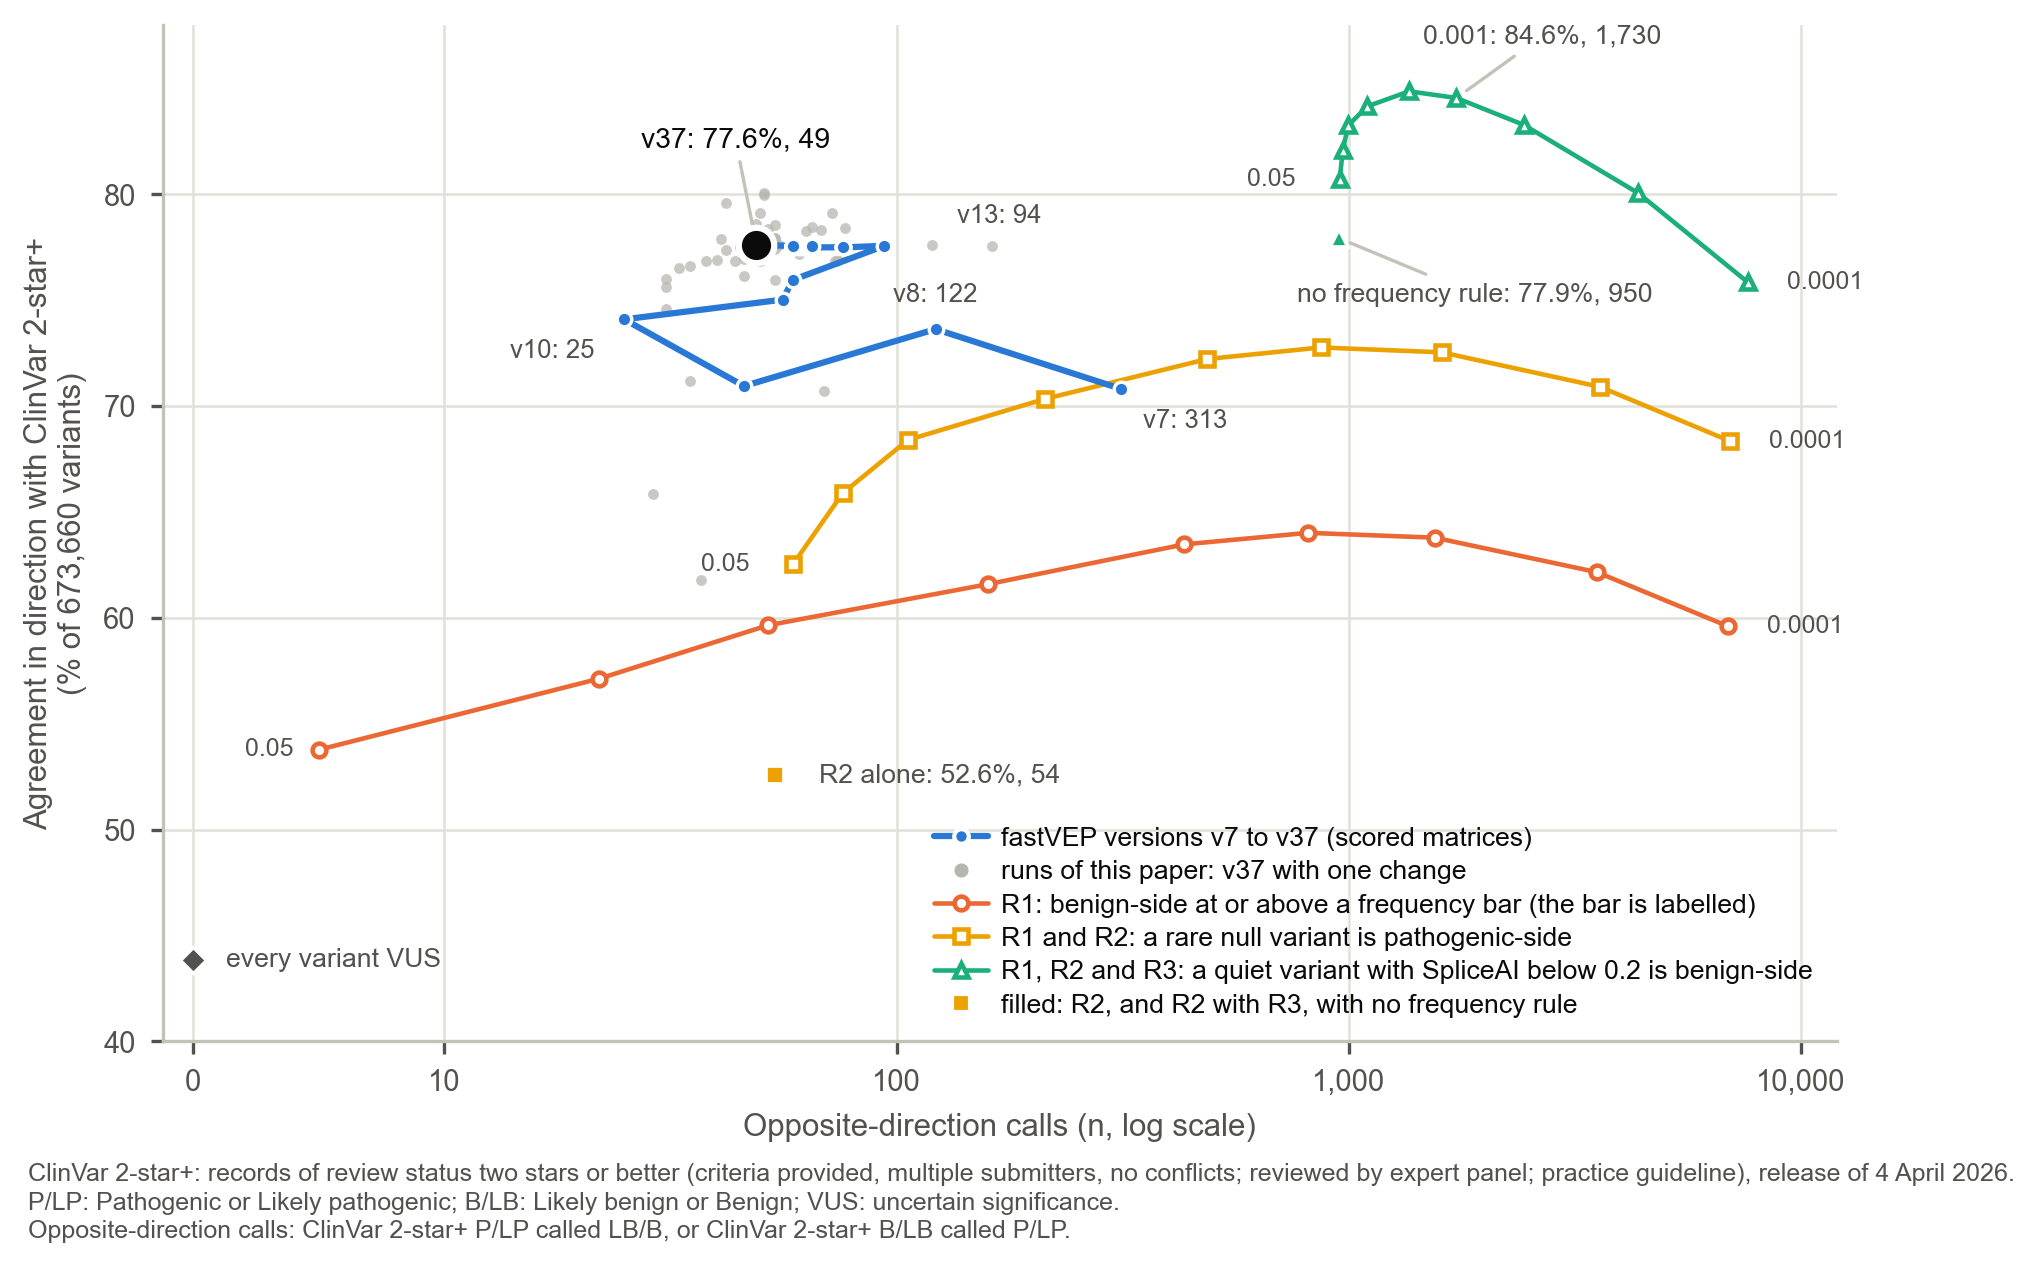
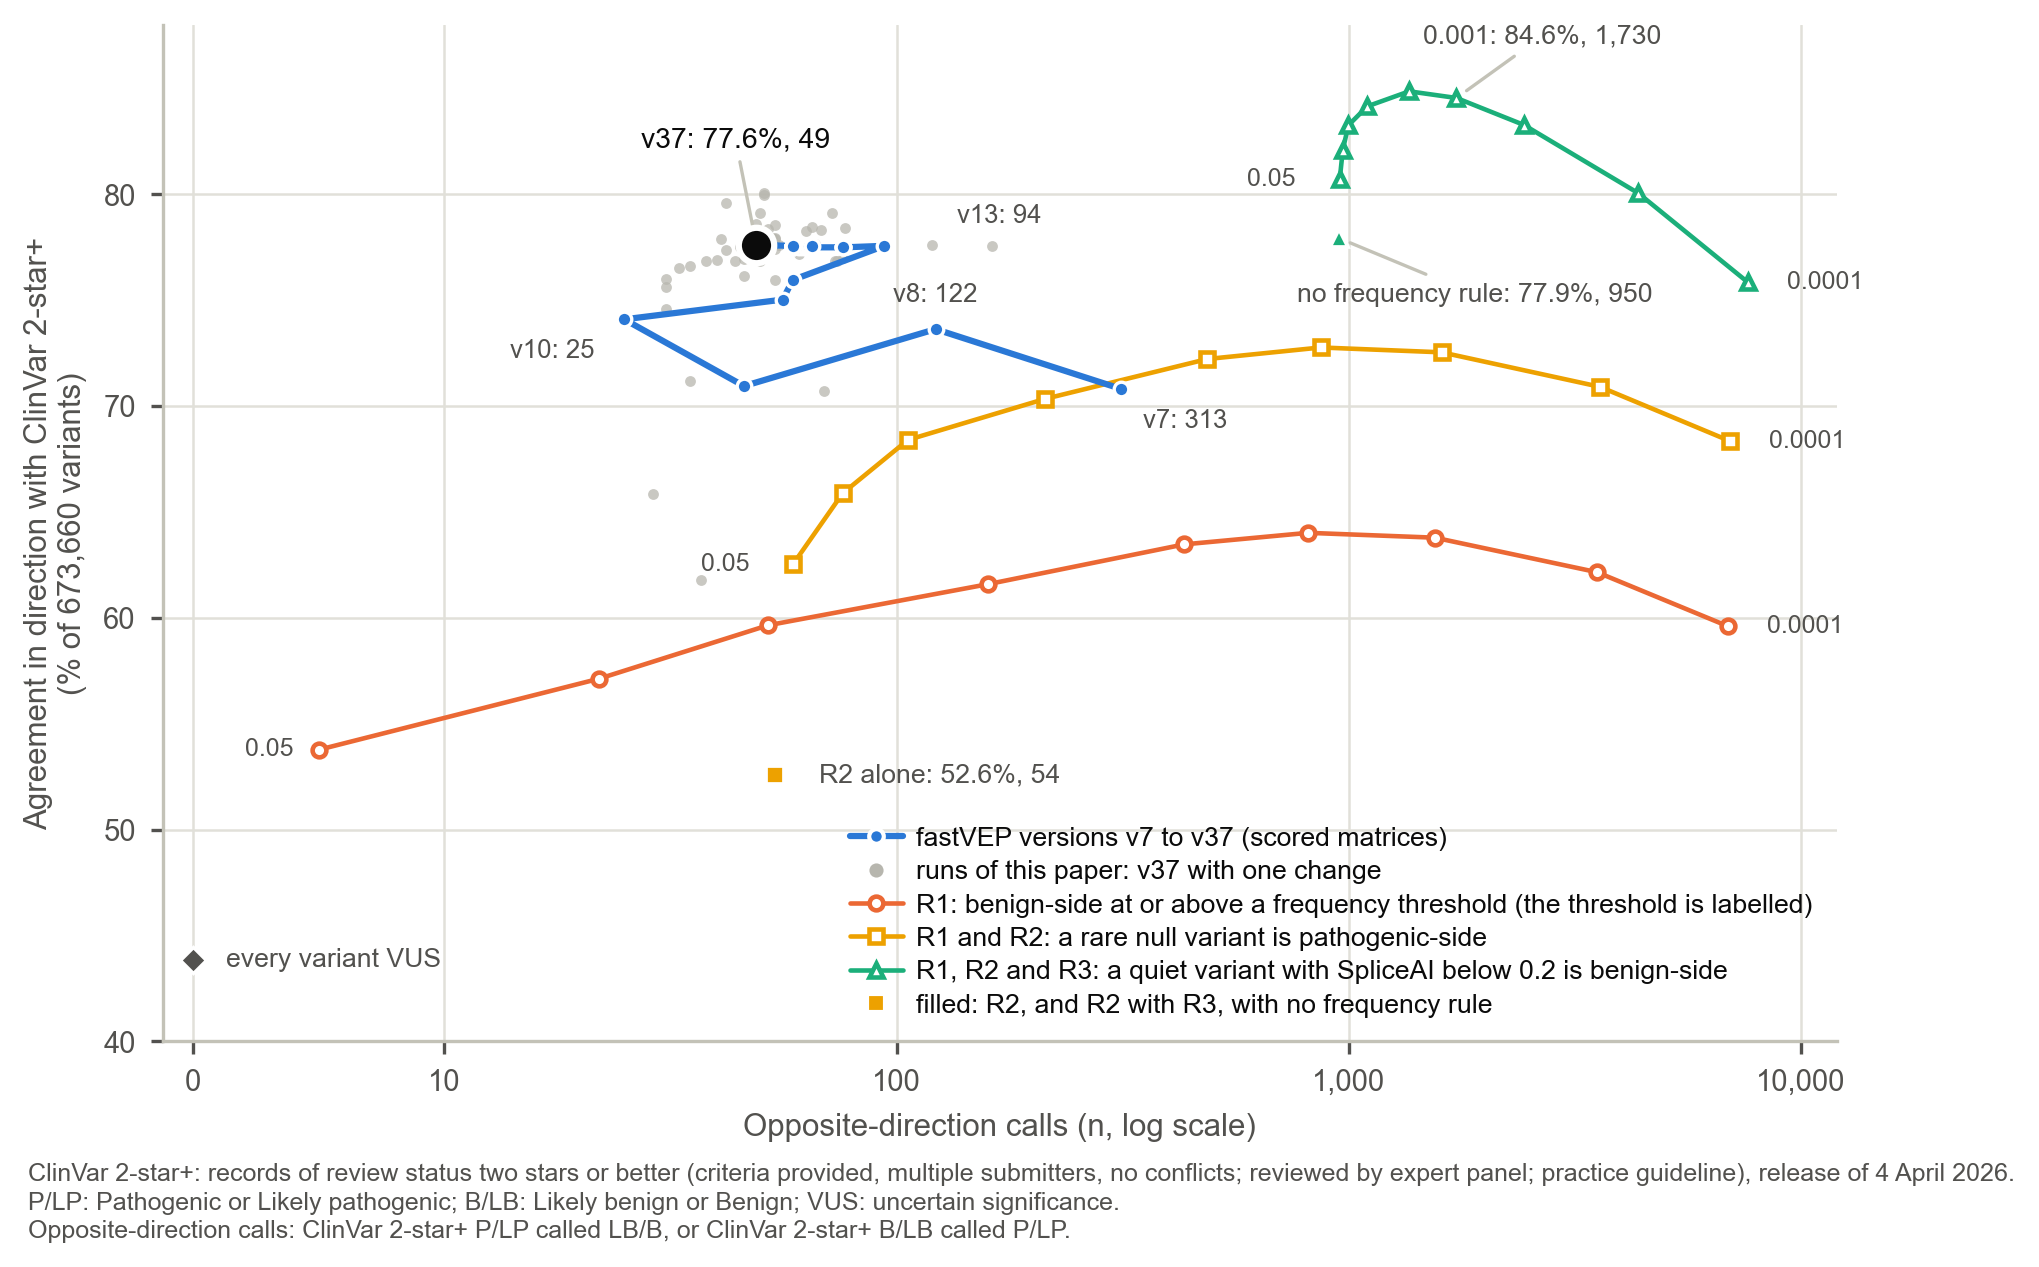
docs(acmg): say frequency threshold in Figure S4's legend, as the text and the other figures do
The legend of R1 read "a frequency bar (the bar is labelled)" after the manuscript had stopped using the word.
Regenerated with generate_figures.py S4: the only pixels that differ are inside the legend.
The comments of the generator that said shipped and bar now say default and threshold; the names it reads from data/ are unchanged.

Changed region(s): [[0.4017, 0.6464, 0.896, 0.8003]]

diff --git a/manuscript/acmg/generate_figures.py b/manuscript/acmg/generate_figures.py
@@ -183,7 +183,7 @@ def figS1_trajectory() -> None:
         t[c] = t[c] * 100  # every rate of this figure is drawn as a percentage
     stored = t[t.source.str.startswith("scored")]
     main = stored[stored.mainline]  # the steps on the way: v7 to v37 without v17
-    side = stored[~stored.mainline]  # v17, the opt-in run with the published VCEP bars
+    side = stored[~stored.mainline]  # v17, the opt-in run with the published VCEP thresholds
     # Open markers: v1, a matrix reconstructed from the run's documentation, and v2, v4 to v6, the figures
     # recorded at the time. None of them has a raw output behind it.
     opened = t[~t.source.str.startswith("scored")]
@@ -555,7 +555,7 @@ def fig2_points() -> None:
     axB.plot(cut.wrong / 1000, cut.plp_recall * 100, color=CAT[0], lw=LW, zorder=2)
     for r in cut.itertuples():
         shipped = r.lp == 6
-        # a filled black marker is the shipped setting, here and in Figures 1 and 2C; open markers are the others
+        # a filled black marker is the default setting, here and in Figures 1 and 2C; open markers are the others
         axB.plot([r.wrong / 1000], [r.plp_recall * 100], marker="o", ms=MS + (2 if shipped else 0), mfc=INK if shipped else SURFACE,
                  mec=SURFACE if shipped else CAT[0], mew=1.5 if shipped else 1.4, zorder=5 if shipped else 3)
     lab = {4: (0.9, 0, "4"), 5: (-0.9, 2.4, "5"), 6: (0.9, 0.6, "6 (default)"), 7: (0.9, -1.6, "7 and 8"), 9: (0.9, 0, "9")}
@@ -804,7 +804,7 @@ def fig1_thresholds() -> None:
     axB = fig.add_subplot(gs[1])
     axC = fig.add_subplot(gs[2])
 
-    # A: the benign-side trade space. Every knob passes through the shipped point.
+    # A: the benign-side trade space. Every knob passes through the default point.
     # (dx, dy, alignment) of each labelled point, in data units, chosen so no label sits on a line.
     knobs = [
         ("bs1_af_threshold", "BS1 threshold", CAT[0], "0.005", {"0.0002": (0.3, 0, "left"), "0.001": (0.3, -4, "left"), "0.02": (0, 6, "center"), "0.01": (0, 6, "center")}),
@@ -814,7 +814,7 @@ def fig1_thresholds() -> None:
         ("bp1_max_pathogenic_missense", "BP1 veto count", CAT[4], "3", {"1": (0.3, -3.5, "left"), "25": (0.3, 0, "left")}),
     ]
     show = {"bs1_af_threshold": {"0.0002", "0.001", "0.01", "0.02"}, "bs2_hom_prevalence_threshold": {"1e-06", "1e-05"},
-            "bp7_max_intron_offset": {"0", "50", "1000000"}, "phylop_conserved": {"1", "1000"}, "bp1_max_pathogenic_missense": set()}  # its points sit on the shipped one and on BP7's line; the caption names the range
+            "bp7_max_intron_offset": {"0", "50", "1000000"}, "phylop_conserved": {"1", "1000"}, "bp1_max_pathogenic_missense": set()}  # its points sit on the default one and on BP7's line; the caption names the range
     for knob, label, color, shipped, offs in knobs:
         sub = r[(r.knob == knob) & (r.group == "sweep")].copy()
         sub["v"] = sub.value.astype(str)
@@ -843,7 +843,7 @@ def fig1_thresholds() -> None:
     axA.set_title("Thresholds on the benign side", loc="left", fontsize=8, pad=6)
     panel_letter(axA, "A", x=-0.17, y=1.10)
 
-    # B: the PM2 bar for dominant genes, under the point system and under the 2015 table
+    # B: the PM2 threshold for dominant genes, under the point system and under the 2015 table
     pm = r[(r.knob == "pm2_ad_af_threshold") & (r.group == "sweep")].copy()
     tb = r[r.knob.str.startswith("pm2_ad_af_threshold (Richards") & (r.group == "interaction")].copy() if "interaction" in set(r.group) else r.iloc[0:0]
     tbase = r[r.name == "v37_sw_table_both_sides"]
@@ -879,7 +879,7 @@ def fig1_thresholds() -> None:
     axB.set_title("PM2 threshold, by combining rule", loc="left", fontsize=8, pad=6)
     panel_letter(axB, "B", x=-0.27, y=1.10)
 
-    # C: the dominant-gene BS2 carrier bar, change in recall against the shipped 3e-4
+    # C: the dominant-gene BS2 carrier threshold, change in recall against the default 3e-4
     bs = r[(r.knob == "bs2_ad_prevalence_threshold") & (r.group == "sweep")].copy()
     xs, plp, blb = [], [], []
     for row in bs.itertuples():
@@ -1049,14 +1049,14 @@ def figS4_frontier() -> None:
         r = main[main.run == run].iloc[0]
         ax.text(r.opposite * fx, r.same_direction_rate * 100 + dy, f"{run}: {int(r.opposite)}", fontsize=6.2, color=INK2, ha=ha, va="center")
 
-    # the rules, at nine frequency bars each
-    style = {"R1": (CAT[1], "o", "R1: benign-side at or above a frequency bar (the bar is labelled)"),
+    # the rules, at nine frequency thresholds each
+    style = {"R1": (CAT[1], "o", "R1: benign-side at or above a frequency threshold (the threshold is labelled)"),
              "R1 + R2": (CAT[3], "s", "R1 and R2: a rare null variant is pathogenic-side"),
              "R1 + R2 + R3": (CAT[2], "^", "R1, R2 and R3: a quiet variant with SpliceAI below 0.2 is benign-side")}
     for rule, (col, mk, lab) in style.items():
         c = curve[curve.rule == rule].sort_values("benign_frequency_bar", ascending=False)
         ax.plot(c.opposite, c.same_direction_share * 100, color=col, lw=1.1, marker=mk, ms=MS - 2.2, mfc=SURFACE, mec=col, mew=1.1, zorder=3, label=lab)
-    # the frequency bar at each end of each line
+    # the frequency threshold at each end of each line
     for rule, (col, mk, lab) in style.items():
         c = curve[curve.rule == rule].set_index("benign_frequency_bar")
         for bar, dx, dy, ha in ((5e-2, 0.80, 0.0, "right"), (1e-4, 1.22, 0.0, "left")):
